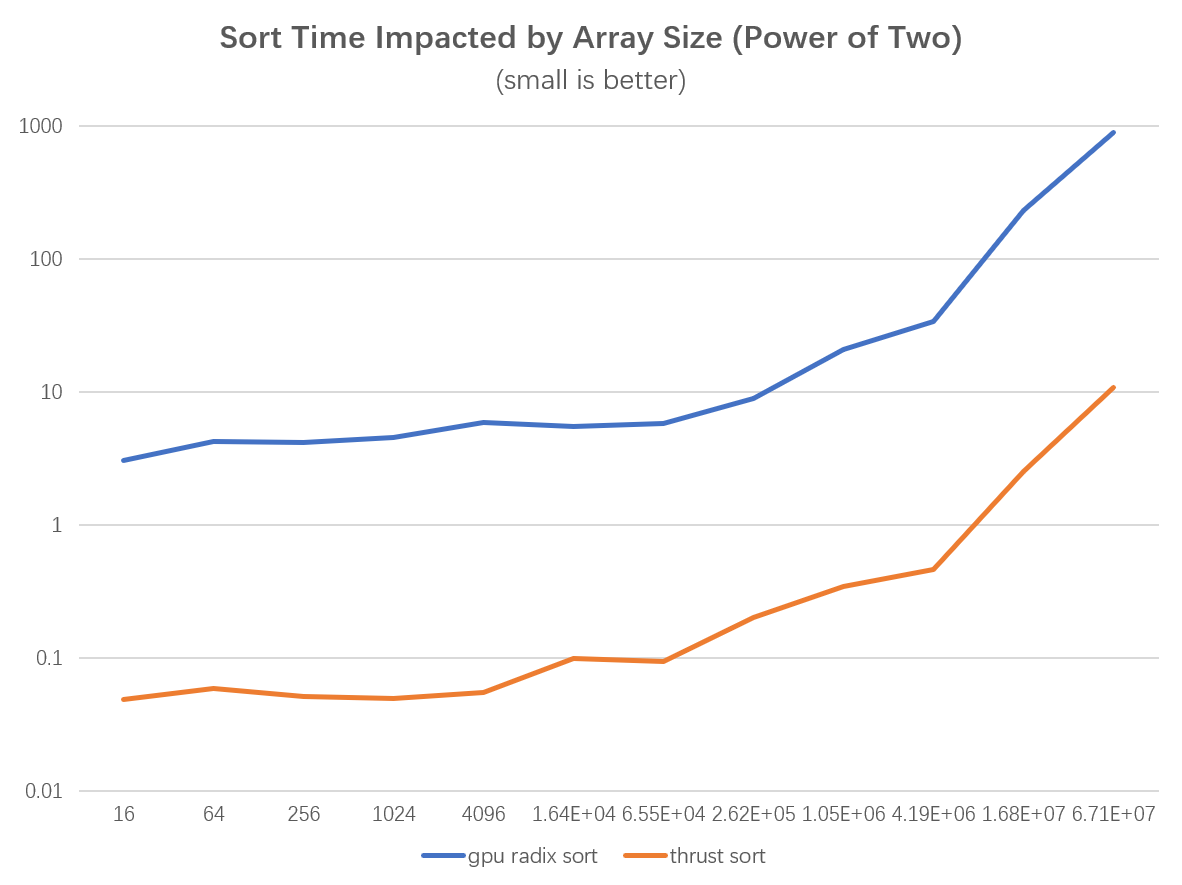
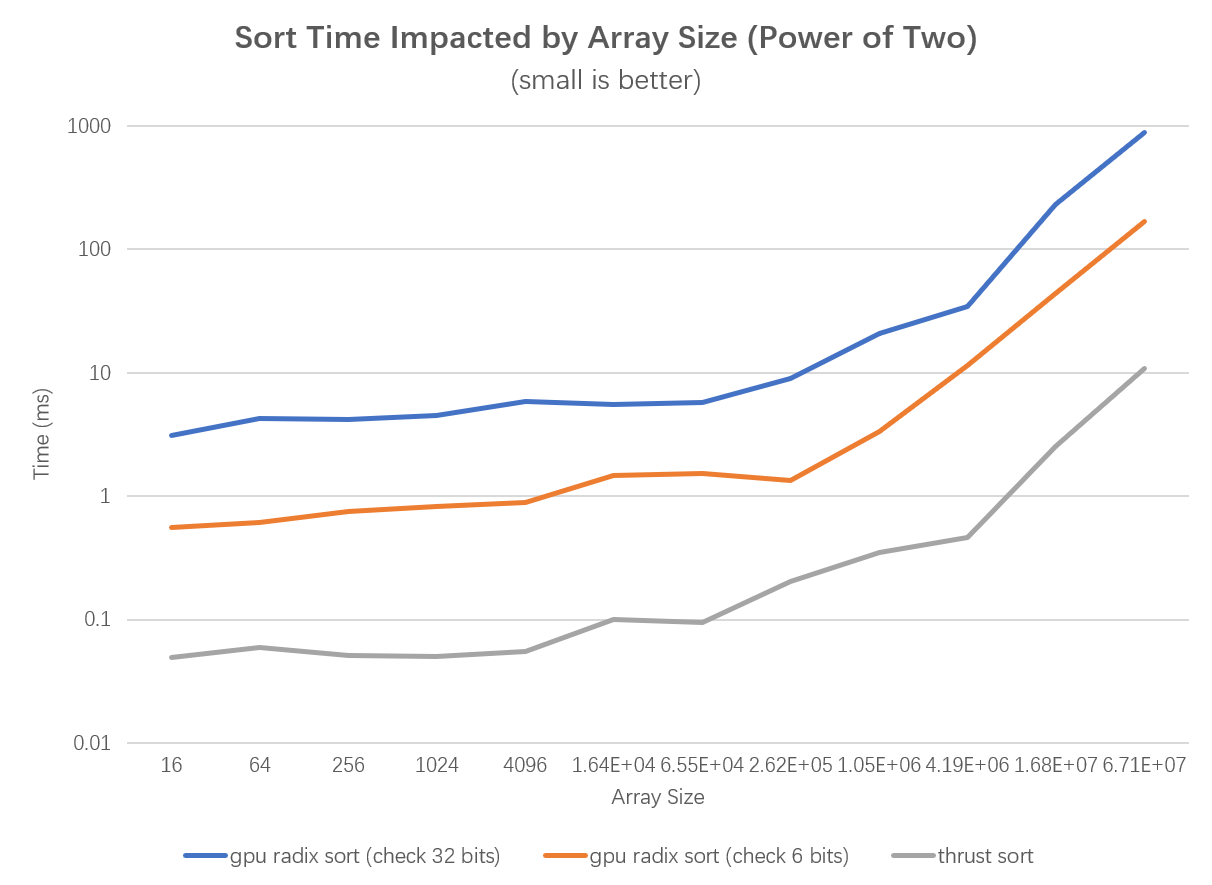
Update

diff --git a/src/main.cpp b/src/main.cpp
@@ -13,7 +13,7 @@
 #include <stream_compaction/thrust.h>
 #include "testing_helpers.hpp"
 
-const int SIZE = 64; // feel free to change the size of array
+const int SIZE = 4194304; // feel free to change the size of array
 const int NPOT = SIZE - 3; // Non-Power-Of-Two
 int *a = new int[SIZE];
 int *b = new int[SIZE];
@@ -197,14 +197,14 @@ int main(int argc, char* argv[]) {
     //printArray(SIZE, c, true);
     printCmpResult(SIZE, b, c);
 
-    for (int i = 0; i < 64; i++) {
-        std::cout << a[i] << " ";
-    }
-    std::cout << std::endl;
-    for (int i = 0; i < 64; i++) {
-        std::cout << c[i] << " ";
-    }
-    std::cout << std::endl;
+    //for (int i = 0; i < 64; i++) {
+    //    std::cout << a[i] << " ";
+    //}
+    //std::cout << std::endl;
+    //for (int i = 0; i < 64; i++) {
+    //    std::cout << c[i] << " ";
+    //}
+    //std::cout << std::endl;
 
     zeroArray(SIZE, c);
     printDesc("radix sort, non-power-of-two");
@@ -301,9 +301,9 @@ int main(int argc, char* argv[]) {
     //StreamCompaction::Efficient::compact(NPOT, c, a);
     //std::cout << StreamCompaction::Efficient::timer().getGpuElapsedTimeForPreviousOperation() << std::endl;
 
-    system("pause"); // stop Win32 console from closing on exit
-    delete[] a;
-    delete[] b;
-    delete[] c;
-    delete[] d;
+    //system("pause"); // stop Win32 console from closing on exit
+    //delete[] a;
+    //delete[] b;
+    //delete[] c;
+    //delete[] d;
 }

diff --git a/README.md b/README.md
@@ -24,15 +24,18 @@ CUDA Stream Compaction
   * When input is:
     
     `{41, 17, 34, 0, 19, 24, 28, 8, 12, 14, 5, 45, 31, 27, 11, 41, 45, 42, 27, 36, 41, 4, 2, 3, 42, 32, 21, 16, 18, 45, 47, 26, 21, 38, 19, 12, 17, 49, 35, 44, 3, 11, 22, 33, 23, 14, 41, 11, 3, 18, 47, 44, 12, 7, 37, 9, 23, 41, 29, 28, 16, 35, 40, 0}`,
+    
     the output is:
+    
      `{0, 0, 2, 3, 3, 3, 4, 5, 7, 8, 9, 11, 11, 11, 12, 12, 12, 14, 14, 16, 16, 17, 17, 18, 18, 19, 19, 21, 21, 22, 23, 23, 24, 26, 27, 27, 28, 28, 29, 31, 32, 33, 34, 35, 35, 36, 37, 38, 40, 41, 41, 41, 41, 41, 42, 42, 44, 44, 45, 45, 45, 47, 47, 49}`.
-     I also ran comparison between my radix sort and `thrust::sort` (see [Example Output](#example-output) and [Performance Analysis](#radix-sort)).
+    
+     I also ran the comparison between my radix sort and `thrust::sort` (see [Example Output](#example-output) and [Performance Analysis](#radix-sort)).
 
 ### Example Output
 
 </div>
 
-`SIZE` is $2^{20}$. The test size for non-power-of-two case is `SIZE - 3`. CUDA block size is 128.
+`SIZE` is $2^{20} = 1.05 \times 10 ^ 6$. The test size for non-power-of-two case is `SIZE - 3`. CUDA block size is 128.
 
 ```
 ****************
@@ -116,22 +119,61 @@ CUDA block size is 128.
 
 #### Scan
 
-![Scan Time Impacted by Array Size (Power of Two)](img/Scan Time Impacted by Array Size Power of Two.png)
+When array size is small, the CPU implementation is faster than GPU implementation and the fluctuation in GPU implementation time cost is small. When array size is larger than 2.62e5, both thrust function and my work-efficient implementation outperform my CPU implementation.
+
+![Scan Time Impacted by Array Size Power of Two](img/Scan Time Impacted by Array Size Power of Two.png)
 
 <!-- ![Scan Time Impacted by Array Size (Non Power of Two)](img/Scan Time Impacted by Array Size Non Power of Two.png) -->
 
 #### Compaction
 
-![Compaction Time Impacted by Array Size (Power of Two)](img/Compaction Time Impacted by Array Size Power of Two.png)
+The situation is the same as scan and the turning point is 6.55e4. 
 
-<!-- ![Compaction Time Impacted by Array Size (Non Power of Two)](img/Compaction Time Impacted by Array Size (Non Power of Two).png) -->
+![Compaction Time Impacted by Array Size Power of Two](img/Compaction Time Impacted by Array Size Power of Two.png)
+
+<!-- ![Compaction Time Impacted by Array Size (Non Power of Two)](img/Compaction Time Impacted by Array Size Non Power of Two.png) -->
 
 #### Radix Sort
 
-![Sort Time Impacted by Array Size (Power of Two)](img/Sort Time Impacted by Array Size (Power of Two).png)
+My implementation of radix sort is very slower than thrust function. 
 
-<!-- ![Sort Time Impacted by Array Size (Non Power of Two)](img/Sort Time Impacted by Array Size (Non Power of Two).png) -->
+![Sort Time Impacted by Array Size Power of Two](img/Sort Time Impacted by Array Size Power of Two.png)
 
-## Answers to the Questions
+<!-- ![Sort Time Impacted by Array Size (Non Power of Two)](img/Sort Time Impacted by Array Size Non Power of Two.png) -->
 
-## Some Thoughts
+### Performance Impacted by CUDA Block Size
+
+`SIZE` is $2^{20} = 1.05 \times 10 ^ 6$.
+
+#### Scan
+
+![Scan Time Impacted by CUDA Block Size Power of Two](img/Scan Time Impacted by CUDA Block Size Power of Two.png)
+
+#### Compaction
+
+![Compaction Time Impacted by CUDA Block Size Power of Two](img/Compaction Time Impacted by CUDA Block Size Power of Two.png)
+
+#### Radix Sort
+
+![Radix Sort Time Impacted by CUDA Block Size Power of Two](img/Radix Sort Impacted by CUDA Block Size Power of Two.png)
+
+## Why is My GPU Approach So Slow?
+
+The optimization I made to the the work-efficient scan is to avoid Warp Partitioning by compressing the threads:
+
+![Threads Allocation of the Down Sweep Function](img/Threads Allocation of the Down Sweep Function.png)
+
+Due to time constraints, I haven't implemeted the shared memory part. I guess this is where the thurst function surpasses mine.
+
+My radix sort (6 bit)'s time cost is about 10 times as much as my work-efficient scan's. This matches my instinct because radix sort will repeate the scan function in each sort. However, I noticed that the time cost of thrust sort function is not 0 times as much as its scan function. For instance, when array size is 65536, the thrust scan costs 0.04ms while sort costs 0.09ms. This drives me to think if there is more optimizations I can do on radix sort.
+
+* Roughly optimize the block sizes of each of your implementations for minimal
+  run time on your GPU.
+  
+  * See [Performance Analysis](#performance-impacted-by-cuda-block-size).
+
+* 
+
+## Some mistakes I made
+
+* At first I put the for loop inside the kernel functions and used a `__syncthreads()` at the begining of each iteration. However, since `__syncthreads()` is block-wise, my result went wrong when the array size exceeded my block size. Then I put the for loop outside the kernel functions.

diff --git a/INSTRUCTION.md b/INSTRUCTION.md
@@ -153,11 +153,9 @@ For thrust stream compaction, take a look at [thrust::remove_if](https://thrust.
 
 ## Part 5: Why is My GPU Approach So Slow? (Extra Credit) (+5)
 
-If you implement your efficient scan version following the slides closely, there's a good chance
-that you are getting an "efficient" gpu scan that is actually not that efficient -- it is slower than the cpu approach?
+If you implement your efficient scan version following the slides closely, there's a good chance that you are getting an "efficient" gpu scan that is actually not that efficient -- it is slower than the cpu approach?
 
-Though it is totally acceptable for this assignment,
-In addition to explain the reason of this phenomena, you are encouraged to try to upgrade your work-efficient gpu scan.
+Though it is totally acceptable for this assignment, In addition to explain the reason of this phenomena, you are encouraged to try to upgrade your work-efficient gpu scan.
 
 Thinking about these may lead you to an aha moment:
 
